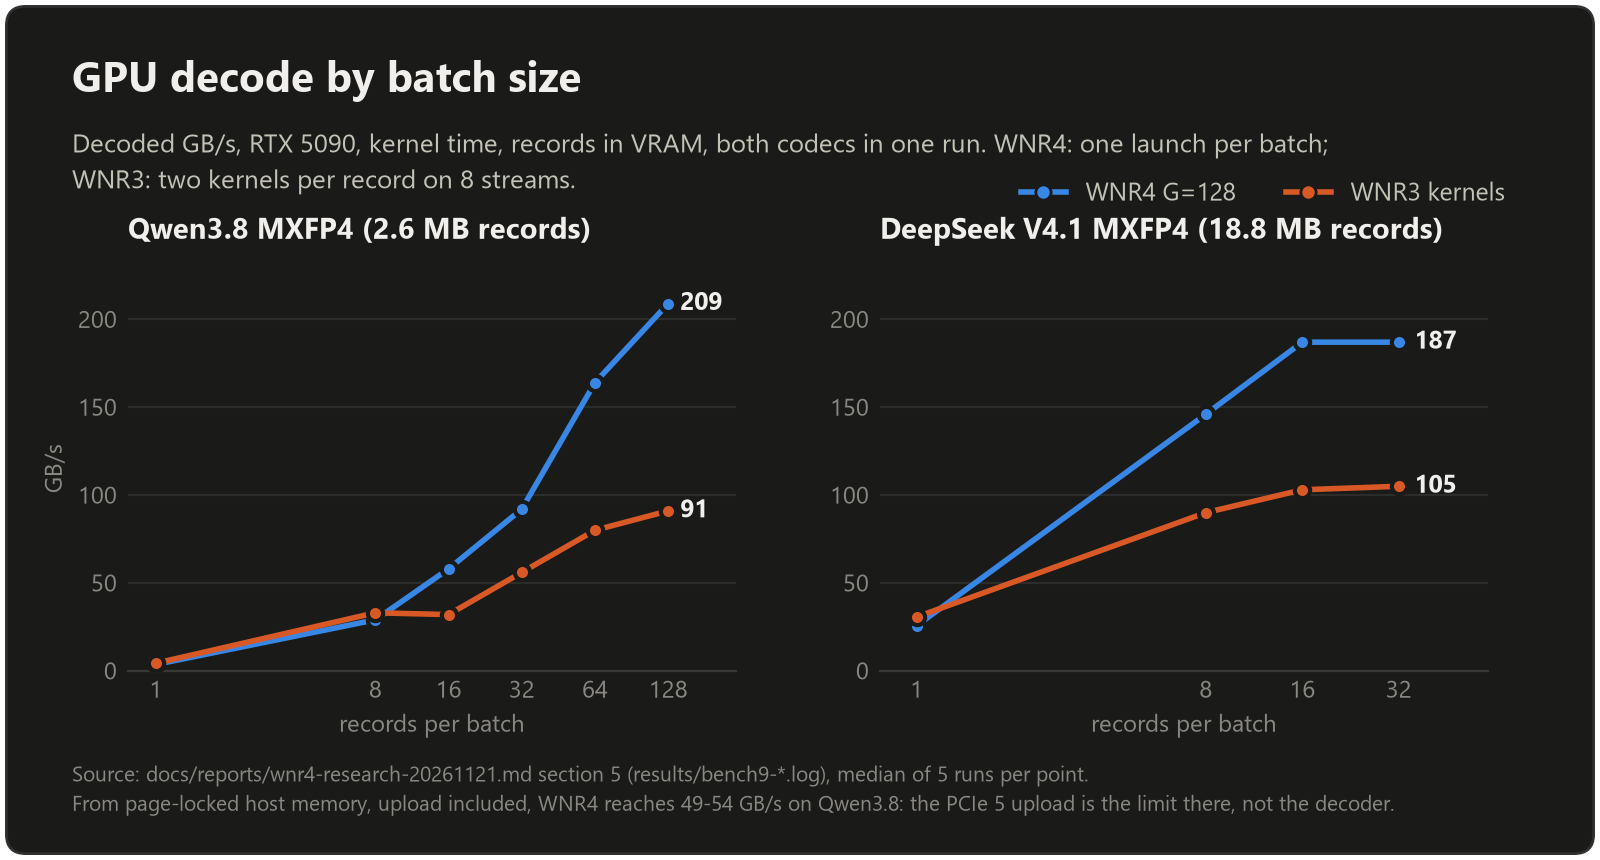
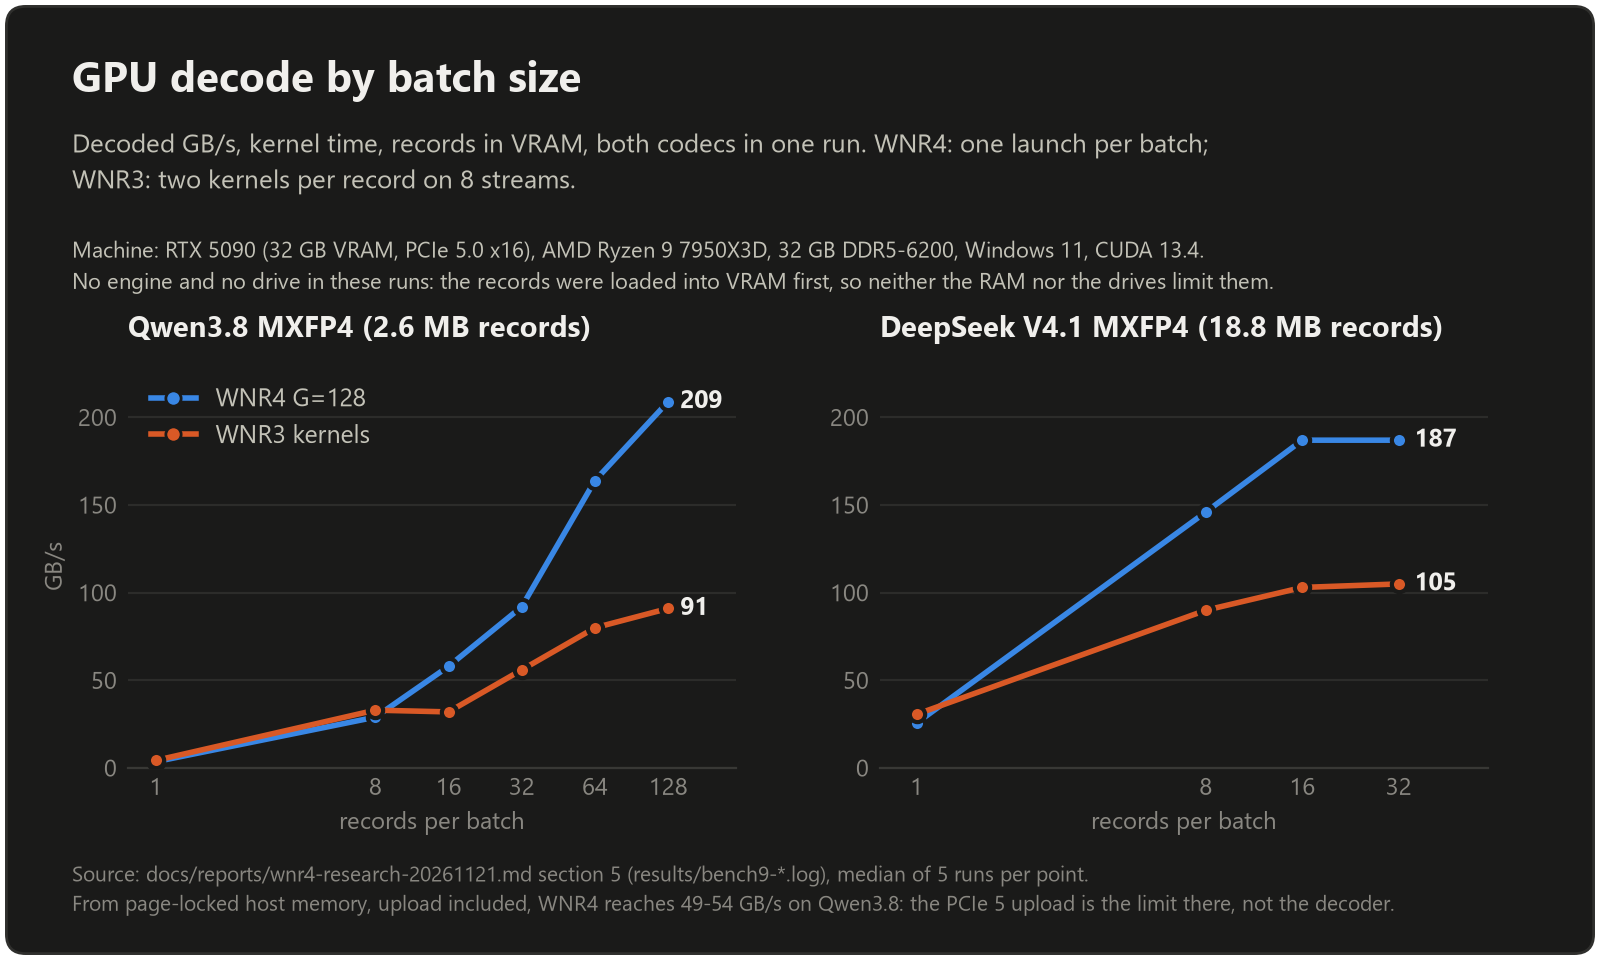
research(wnr4): GPU chart names the machine (RTX 5090 32 GB VRAM, 7950X3D, 32 GB DDR5) and that no drive or engine was in the runs

diff --git a/research/wnr4-20261121/charts.py b/research/wnr4-20261121/charts.py
@@ -54,15 +54,19 @@ def chart_gpu(t):
     batches = [1, 8, 16, 32, 64, 128]
     q38 = {'WNR4 G=128': [3.6, 29, 58, 92, 164, 209], 'WNR3 kernels': [4.3, 33, 32, 56, 80, 91]}
     v41 = {'WNR4 G=128': [25.6, 146, 187, 187], 'WNR3 kernels': [30.6, 90, 103, 105]}
-    h = 4.3
+    h = 4.8
     fig = cs.figure(t, h)
     cs.header(fig, t, 'GPU decode by batch size',
-              'Decoded GB/s, RTX 5090, kernel time, records in VRAM, both codecs in one run. WNR4: one launch per '
-              'batch;\nWNR3: two kernels per record on 8 streams.', h)
+              'Decoded GB/s, kernel time, records in VRAM, both codecs in one run. WNR4: one launch per batch;\n'
+              'WNR3: two kernels per record on 8 streams.', h)
+    fig.text(0.045, 1 - 1.18 / h, 'Machine: RTX 5090 (32 GB VRAM, PCIe 5.0 x16), AMD Ryzen 9 7950X3D, 32 GB '
+             'DDR5-6200, Windows 11, CUDA 13.4.\nNo engine and no drive in these runs: the records were loaded into '
+             'VRAM first, so neither the RAM nor the drives limit them.', fontsize=8, color=t['ink2'], va='top',
+             linespacing=1.5)
     colors = {'WNR4 G=128': t['blue'], 'WNR3 kernels': t['orange']}
     for k, (title, data, bs) in enumerate((('Qwen3.8 MXFP4 (2.6 MB records)', q38, batches),
                                            ('DeepSeek V4.1 MXFP4 (18.8 MB records)', v41, batches[:4]))):
-        ax = cs.axes(fig, t, [0.08 + k * 0.47, 0.22, 0.38, 0.47], title)
+        ax = cs.axes(fig, t, [0.08 + k * 0.47, 0.2, 0.38, 0.42], title)
         ax.grid(axis='y', color=t['grid'], linewidth=0.8)
         ax.grid(axis='x', visible=False)
         ax.set_xscale('log', base=2)
@@ -82,8 +86,7 @@ def chart_gpu(t):
             ax.set_ylabel('GB/s', fontsize=8.5, color=t['muted'])
     handles = [cs.plt.Line2D([], [], color=colors[n], linewidth=2, marker='o', markersize=5.5,
                              markeredgecolor=t['surface']) for n in colors]
-    leg = fig.legend(handles, list(colors), loc='upper right', bbox_to_anchor=(0.955, 0.815), ncol=2, frameon=False,
-                     fontsize=9, handlelength=1.8)
+    leg = fig.axes[0].legend(handles, list(colors), loc='upper left', frameon=False, fontsize=9, handlelength=1.8)
     for txt in leg.get_texts():
         txt.set_color(t['ink2'])
     cs.footer(fig, t, 'Source: docs/reports/wnr4-research-20261121.md section 5 (results/bench9-*.log), median of 5 '
